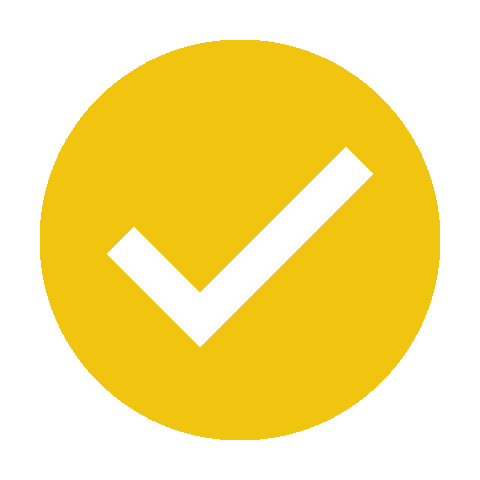
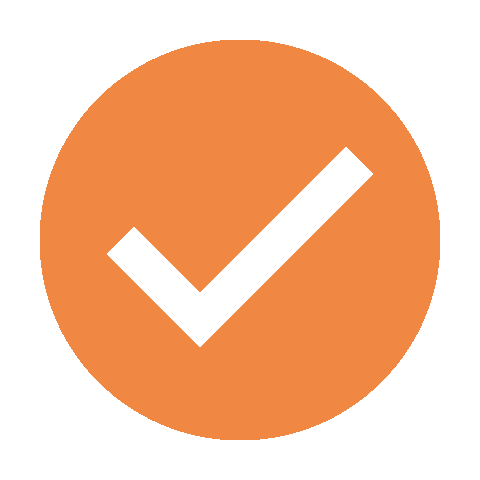
Раздел о приложении

diff --git a/AboutScreen.js b/AboutScreen.js
@@ -1,0 +1,73 @@
+import React from 'react';
+import Constants from 'expo-constants';
+import { StatusBar } from 'expo-status-bar';
+import { View, StyleSheet, Text, Image, TouchableOpacity } from 'react-native';
+import arrow from './files/blackArrow.png';
+import xFood from './files/xFood.png';
+
+export default function AboutScreen({navigation}) {
+    return (
+        <View style={styles.container}>
+            <StatusBar style="dark" />
+            <View style={styles.barContainer}>
+                <View style={styles.barCell}>
+                    <TouchableOpacity onPress={() => navigation.goBack()}>
+                        <Image source={arrow} style={{width: 50, height: 25}} resizeMode='contain' />
+                    </TouchableOpacity>
+                </View>
+                <View style={styles.barCell}>
+                    <Text style={styles.barText}>Оформление заказа</Text>
+                </View>
+            </View>
+            <View style={styles.aboutContainer}>
+                <Image source={xFood} style={{width: 300, height: 100, marginBottom: 10}} resizeMode='contain' />
+                <Text style={styles.textAbout}>Агрегатор доставки еды из ресторанов</Text>
+                <Text style={styles.textAbout}>Версия приложения: 0.1</Text>
+                <Text style={styles.textLow}>В приложении использованы материалы ресурса icons8.ru</Text>
+            </View>
+            <View style={styles.aboutContainer}>
+                <Text style={styles.textAbout}>© 2020 ИП Смоляр Василий Сергеевич</Text>
+            </View>
+        </View>
+    );
+}
+
+const styles = StyleSheet.create({
+    container: {
+        flex: 1,
+        backgroundColor: '#fff',
+        justifyContent: 'space-between'
+    },
+    barContainer: {
+        backgroundColor: '#fff',
+        padding: 5,
+        paddingLeft: 25,
+        paddingTop: Constants.statusBarHeight,
+        flexDirection: 'row',
+        borderBottomColor: '#f2f3f5',
+        borderBottomWidth: 3
+    },
+    barCell: {
+        alignItems: 'center',
+        justifyContent: 'center',
+        marginRight: 30
+    },
+    barText: {
+        fontWeight: "bold",
+        fontSize: 20,
+        marginVertical: 20
+    },
+    aboutContainer: {
+        alignItems: 'center'
+    },
+    textAbout: {
+        fontSize: 16,
+        fontFamily: 'Tahoma-Regular',
+        marginBottom: 20
+    },
+    textLow: {
+        fontSize: 11,
+        fontFamily: 'Tahoma-Regular',
+    },
+    
+});

diff --git a/Cabinet.js b/Cabinet.js
@@ -59,7 +59,7 @@ export default function CabinetScreen({navigation}) {
                             <Image source={icon} resizeMode="center" style={{width: 90, height: 100, marginLeft: 10}}/>
                         </View>
                     </View>
-                    <View style={{justifyContent: "space-around", marginRight: 30}}>
+                    <View style={{width: '80%', alignItems: 'center', justifyContent: 'space-around'}}>
                         <View>
                             <View style={{flexDirection: 'row', alignItems: 'center'}}>
                                 <Text style={styles.nameText}>{name}</Text>
@@ -73,10 +73,10 @@ export default function CabinetScreen({navigation}) {
                 <Header title="Основные" />
                 <MenuItem title="Мои заказы" page="OrderList" />
                 <MenuItem title="Помощь" page="Catalog" />
-                <MenuItem title="Сканер акцизов" page="Catalog" />
                 <Header title="Акции" />
                 <MenuItem title="Купоны" page="Coupon" />
                 <Header title="Другое" />
+                <MenuItem title="О приложении" page="About" />
                 <TouchableOpacity onPress={onExit}>
                     <View style={styles.itemContainer}>
                         <Text style={[styles.itemText, {color: '#ed3823'}]}>Выйти из аккаунта</Text>
@@ -138,7 +138,7 @@ const styles = StyleSheet.create({
     dataText: {
         fontSize: 16,
         fontFamily: 'Tahoma-Regular',
-        color: '#ead500'
+        color: '#f08741',
     },
     imageBox: {
         backgroundColor: '#201f1b',

diff --git a/components/ModalList.js b/components/ModalList.js
@@ -52,11 +52,10 @@ export default function ModalList(props) {
                     <FlatList keyExtractor={(item, index) => index.toString()} data={places} extraData={choice} renderItem={(item) => {
                         const checked = item.item.id === choice ? <Image source={checkbox} style={styles.fillBox} /> : null;
                         return (
-                            <View style={styles.choiceContainer}>
-                                <TouchableOpacity style={styles.choiceBox}
-                                onPress={() => onChoice(item.item)}>{checked}</TouchableOpacity>
+                            <TouchableOpacity style={styles.choiceContainer} onPress={() => onChoice(item.item)}>
+                                <View style={styles.choiceBox}>{checked}</View>
                                 <Text style={styles.boxText}>{item.item.area_name}</Text>
-                            </View>
+                            </TouchableOpacity>
                         );
                     }} />
                     {button}
@@ -68,7 +67,7 @@ export default function ModalList(props) {
 
 const styles = StyleSheet.create({
     modalContainer: {
-        backgroundColor: 'black',
+        backgroundColor: 'rgba(0, 0, 0, 0.5)',
         flex: 1,
         alignItems: 'center',
         justifyContent: 'center',
@@ -100,6 +99,7 @@ const styles = StyleSheet.create({
         borderTopLeftRadius: 25,
         borderTopRightRadius: 25,
         backgroundColor: '#fff',
+        overflow: 'hidden',
     },
     choiceContainer: {
         padding: 10,

diff --git a/components/Order.js b/components/Order.js
@@ -30,7 +30,7 @@ function OrderItem({item, num}) {
     return (
         <View style={styles.productItem}>
             <Image source={{uri: item.image_url}} style={{ width: 100, height: 100 }} resizeMode='center' />
-            <View style={{marginLeft: 15}}>
+            <View style={{marginLeft: 15, justifyContent: 'flex-start'}}>
                 <Text style={styles.productText} numberOfLines={1}>{num} x {item.title}</Text>
                 <View style={styles.priceContainer}>
                     <Text style={styles.priceText}>{item.price.toFixed(2).replace(/\.00$/,'')} ₽</Text>
@@ -124,6 +124,7 @@ const styles = StyleSheet.create({
         width: '100%',
         borderTopLeftRadius: 25,
         borderTopRightRadius: 25,
+        overflow: 'hidden',
         backgroundColor: '#fff',
     },
     headerContainer: {
@@ -163,7 +164,7 @@ const styles = StyleSheet.create({
     timeHours: {
         fontFamily: 'Tahoma-Regular',
         fontWeight: 'bold', 
-        fontSize: 24,
+        fontSize: 30,
         paddingBottom: 15
     },
     timeText: {

diff --git a/App.js b/App.js
@@ -18,6 +18,7 @@ import CabinetScreen from './Cabinet';
 import CouponScreen from './Coupons';
 import OrderListScreen from './OrderList';
 import MainScreen from './Main';
+import AboutScreen from './AboutScreen';
 import Welcome from './Welcome';
 
 const Stack = createStackNavigator();
@@ -199,6 +200,7 @@ function AppFunc() {
 					<Stack.Screen name="OrderList" component={OrderListScreen} />
 					<Stack.Screen name="Main" component={MainScreen} />
 					<Stack.Screen name="Coupon" component={CouponScreen} />
+					<Stack.Screen name="About" component={AboutScreen} />
 				</Stack.Navigator>
 			</NavigationContainer>
 		</Provider>  

diff --git a/components/NavigationBar.js b/components/NavigationBar.js
@@ -7,7 +7,7 @@ import male from '../files/gray2.png';
 import yshop from '../files/2_orange.png';
 import ycatalog from '../files/4_orange.png';
 import ybacket from '../files/3_orange.png';
-import ymale from '../files/4_orange.png';
+import ymale from '../files/1_orange.png';
 
 export default function SearchBar(props) {
     const navigation = props.navigation;
